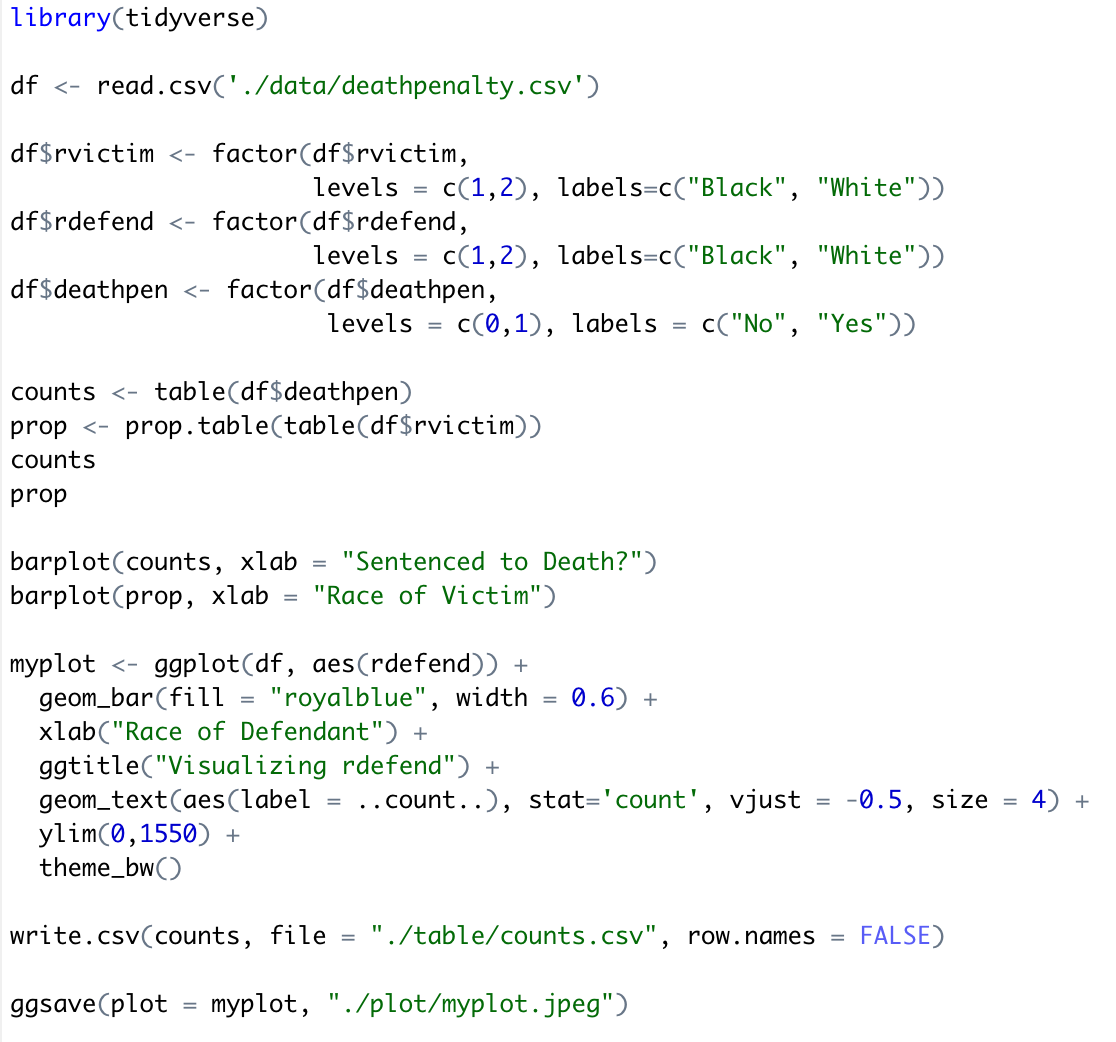
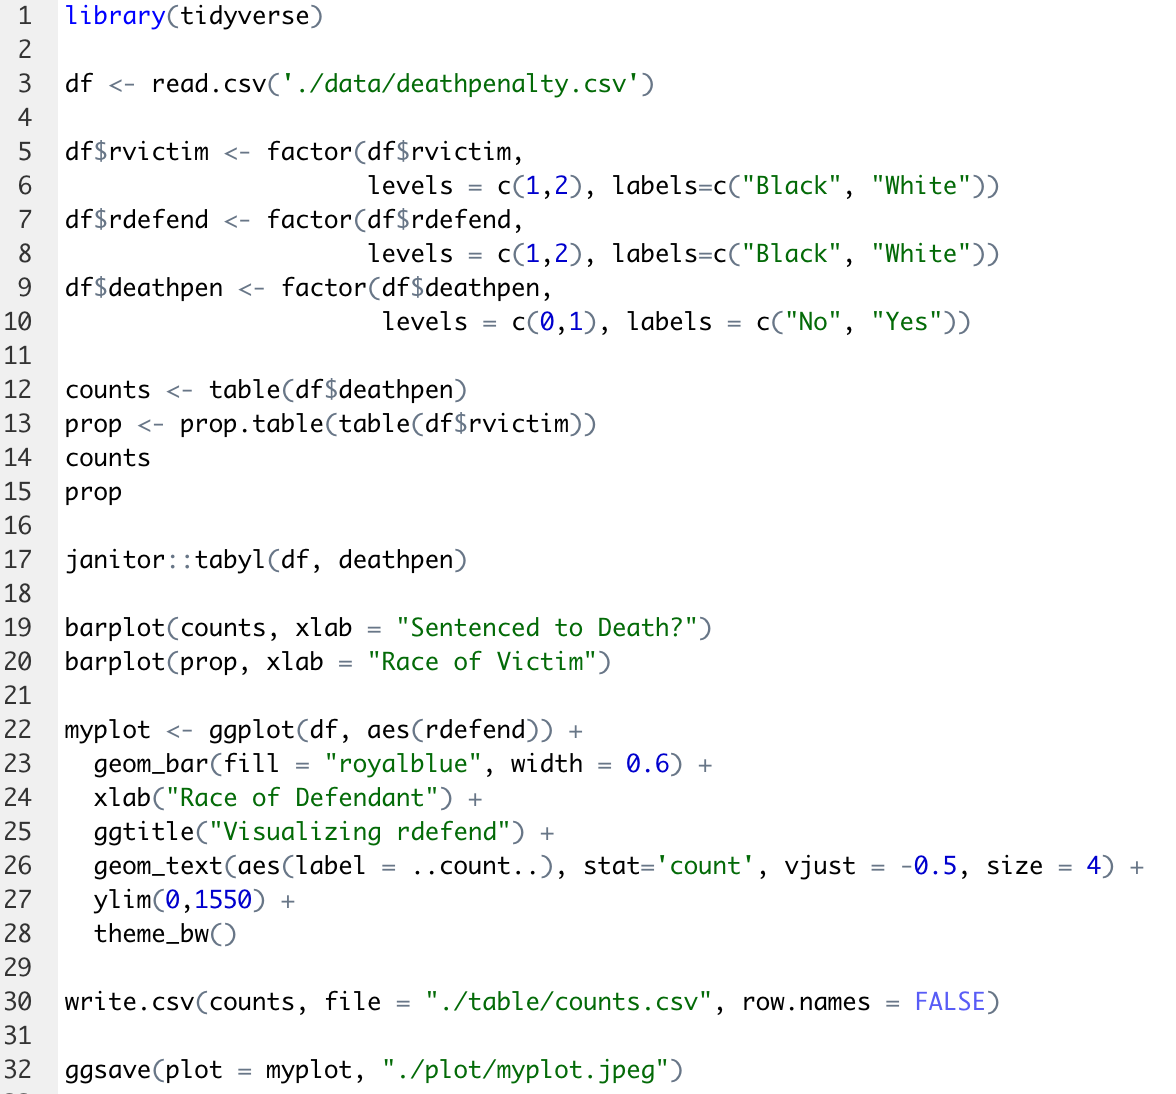
finalizing lab3

Changed region(s): [[0.0, 0.0, 0.853, 1.0], [0.6703, 0.7678, 0.9749, 0.7985], [0.7312, 0.215, 0.853, 0.2457]]

diff --git a/EDUC64122F/lab3.html b/EDUC64122F/lab3.html
@@ -74,7 +74,7 @@ One of the best ways to learn in this class: did you successfully replicate Dr. 
 7. Write code to load the dataset to your R script, call the dataframe **"df"** (to be consistent with lecture code - IMPORTANT)
 8. You are now ready to copy (line #30 forward) from lecture code to your own script
 
-<div class="countdown" id="timer_a789f3a5" data-update-every="1" tabindex="0" style="right:0;bottom:0;left:0;margin:2%;padding:5px;font-size:3em;">
+<div class="countdown" id="timer_1e619ab5" data-update-every="1" tabindex="0" style="right:0;bottom:0;left:0;margin:2%;padding:5px;font-size:3em;">
 <div class="countdown-controls"><button class="countdown-bump-down">&minus;</button><button class="countdown-bump-up">&plus;</button></div>
 <code class="countdown-time"><span class="countdown-digits minutes">06</span><span class="countdown-digits colon">:</span><span class="countdown-digits seconds">00</span></code>
 </div>
@@ -82,17 +82,15 @@ One of the best ways to learn in this class: did you successfully replicate Dr. 
 ### Major learning points from lecture code
 
 1. Recode your categorical variables: run **code line 37-42** in your own R script
-
 2. Present a categorical variable in a table: run **code line 56 and 61** in your own R script
-
+    - alternatively, use package {janitor}: **janitor::tabyl(df, deathpen)**
 3. Visualize a categorical variable in a barplot in two ways:
     - Using base R (build-in functions, don't need any package): run **code lines 57 and 62** in your own R script 
     - Using {ggplot2} package (here using code slightly different than the lecture code)
         - myplot &lt;- ggplot(df, aes(rdefend)) + geom_bar(fill = "royalblue", width = 0.6) + xlab("Race of Defendant") + ggtitle("Visualizing rdefend") + geom_text(aes(label = ..count..), stat='count', vjust = -0.5, size = 4) + ylim(0,1550) + theme_bw()
-        - you can do more by manipulating the parameters of each function (e.g., **?geom_bar**)
+        - you can do more by manipulating the parameters of each function (e.g., **?geom_bar**) - share with your neighbor what you have discovered!
 
-    
-<div class="countdown" id="timer_4ca3c103" data-update-every="1" tabindex="0" style="right:0;bottom:0;left:0;margin:2%;padding:5px;font-size:3em;">
+<div class="countdown" id="timer_6e039a5c" data-update-every="1" tabindex="0" style="right:0;bottom:0;left:0;margin:2%;padding:5px;font-size:3em;">
 <div class="countdown-controls"><button class="countdown-bump-down">&minus;</button><button class="countdown-bump-up">&plus;</button></div>
 <code class="countdown-time"><span class="countdown-digits minutes">10</span><span class="countdown-digits colon">:</span><span class="countdown-digits seconds">00</span></code>
 </div>
@@ -106,7 +104,7 @@ One of the best ways to learn in this class: did you successfully replicate Dr. 
     - write.csv(prop, file = "./table/prop.csv", row.names = FALSE)
 3. Go to your **table folder** and see if they are there
 
-<div class="countdown" id="timer_6c8cd0a4" data-update-every="1" tabindex="0" style="right:0;bottom:0;left:0;margin:2%;padding:5px;font-size:3em;">
+<div class="countdown" id="timer_536c6db3" data-update-every="1" tabindex="0" style="right:0;bottom:0;left:0;margin:2%;padding:5px;font-size:3em;">
 <div class="countdown-controls"><button class="countdown-bump-down">&minus;</button><button class="countdown-bump-up">&plus;</button></div>
 <code class="countdown-time"><span class="countdown-digits minutes">06</span><span class="countdown-digits colon">:</span><span class="countdown-digits seconds">00</span></code>
 </div>
